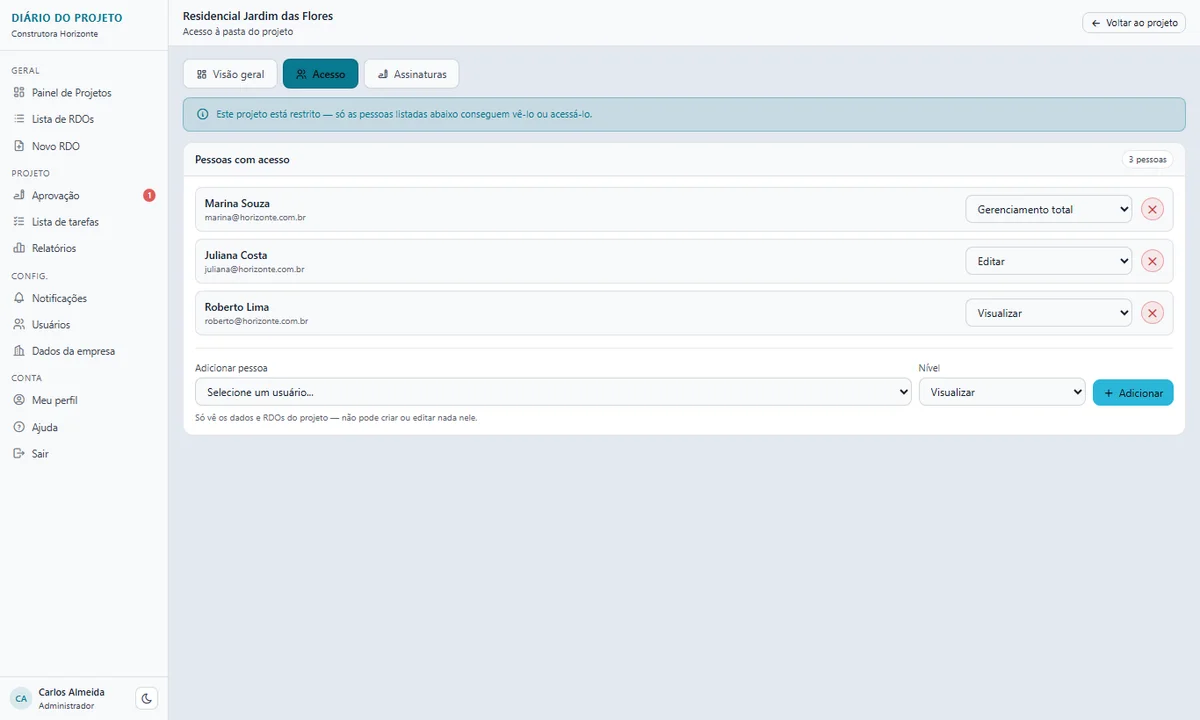
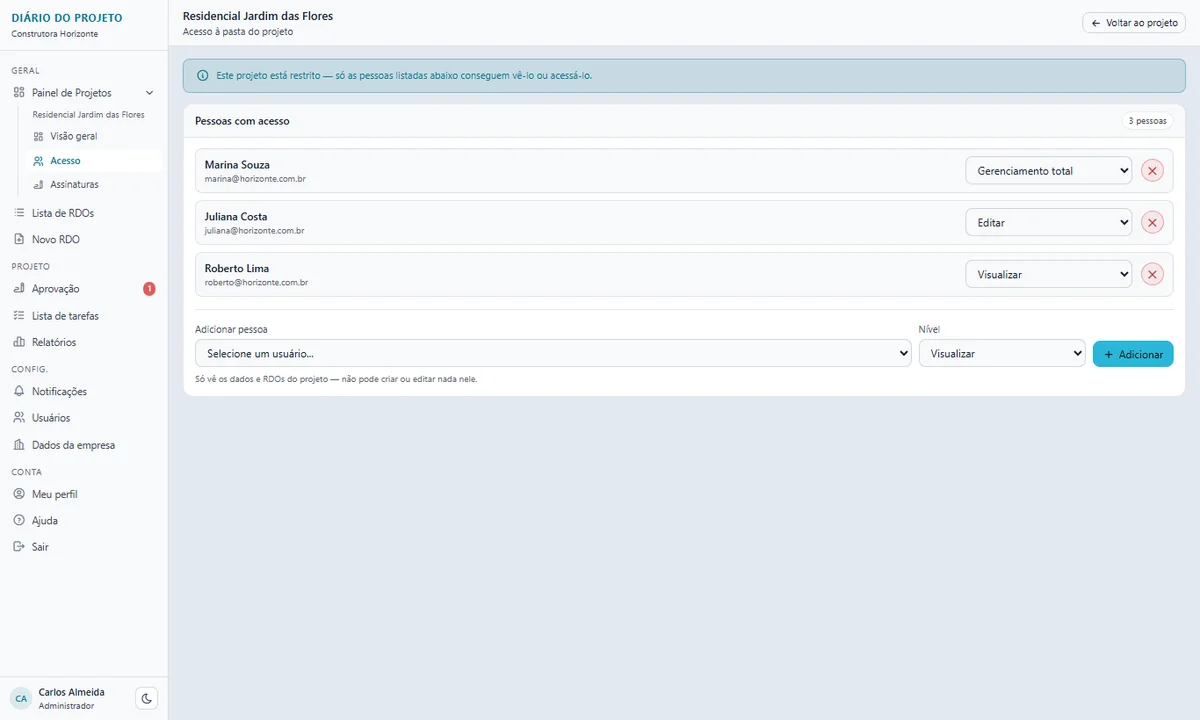
Telas do projeto (Visão geral, Acesso, Assinaturas) passam para um submenu recolhível sob Painel de Projetos, no menu lateral

Changed region(s): [[0.1542, 0.0611, 1.0, 0.6111], [0.0, 0.1528, 0.1233, 0.7639], [0.8017, 0.4278, 0.8633, 0.4583]]

diff --git a/app/(app)/ajuda/conteudo.ts b/app/(app)/ajuda/conteudo.ts
@@ -165,13 +165,13 @@ export const SECOES: Secao[] = [
     titulo: 'Dentro de um projeto',
     resumo: 'Visão geral, quem tem acesso e quem precisa assinar os RDOs.',
     blocos: [
-      { t: 'p', x: 'Ao clicar em um projeto no painel você entra na **pasta do projeto**, que tem três abas: **Visão geral**, **Acesso** e **Assinaturas**.' },
+      { t: 'p', x: 'Ao clicar em um projeto no painel você entra na **pasta do projeto**, que tem três telas: **Visão geral**, **Acesso** e **Assinaturas**. Elas ficam no **menu lateral esquerdo**, num submenu logo abaixo de **Painel de Projetos** (aparece quando você está dentro de um projeto). Clique na setinha ao lado de Painel de Projetos para **recolher** ou reabrir esse submenu. **Acesso** e **Assinaturas** só aparecem para quem pode gerenciar o projeto.' },
       { t: 'h', x: 'Visão geral' },
       { t: 'p', x: 'Mostra os números do projeto (RDOs, atividades, ocorrências, comentários, fotos e vídeos), os **RDOs recentes** e as **fotos recentes** (dois quadros grandes, de tamanho fixo, com rolagem própria: mostram os 15 RDOs e as 24 fotos mais recentes, e **Ver tudo** abre o restante) e, rolando a página para baixo, as informações do contrato: prazo, progresso planejado e real, desvio, H/H total e duração. Clique em qualquer indicador para ver o conteúdo por trás do número. O indicador **Atividades** abre a lista de todas as atividades registradas nos RDOs, as da lista de tarefas e as **avulsas** (marcadas com a etiqueta "Avulsa"), com o andamento em cada RDO (por exemplo, "80% → 85% (+5%)", na mesma linha da atividade). As listas de **Atividades**, **Ocorrências**, **Mão de obra** e **Equipamentos** vêm **separadas por RDO/dia**, com uma linha por registro; **Condições climáticas** traz uma linha por dia. Para ver só a lista de tarefas, use o botão **Lista de tarefas** do alto da tela. Nas abas **Fotos**, **Vídeos** e **Anexos** desse mesmo painel você pode **escolher o que baixar**: marque a caixinha no canto de cada item, ou clique em **Selecionar tudo**, e depois em **Baixar selecionados**. O download vem num arquivo .zip, em pastas por dia, e a seleção vale entre as abas (dá para levar fotos e vídeos juntos). Isso funciona em qualquer projeto, não só nos concluídos. Para alterar os dados, use o botão **Editar**.' },
       { t: 'p', x: 'No alto da tela fica o botão **Novo RDO**: dentro da pasta de um projeto, tudo que você cria é daquele projeto, então o RDO já abre com o **projeto selecionado** (você só escolhe a data). O botão **Lista de tarefas**, ao lado, também abre só as etapas e atividades deste projeto.' },
       { t: 'img', src: '/ajuda/projeto-visao-geral.webp', alt: 'Visão geral de um projeto', legenda: 'Visão geral do projeto.' },
       { t: 'h', x: 'Acesso: quem pode ver este projeto' },
-      { t: 'p', x: 'Por padrão, todo o time enxerga o projeto. Se você adicionar a primeira pessoa na aba **Acesso**, o projeto passa a ser **restrito**: só quem estiver na lista consegue vê-lo. Cada pessoa tem um nível:' },
+      { t: 'p', x: 'Por padrão, todo o time enxerga o projeto. Se você adicionar a primeira pessoa na tela **Acesso**, o projeto passa a ser **restrito**: só quem estiver na lista consegue vê-lo. Cada pessoa tem um nível:' },
       {
         t: 'tabela',
         cab: ['Nível', 'O que a pessoa pode fazer'],
@@ -181,11 +181,11 @@ export const SECOES: Secao[] = [
           ['Gerenciamento total', 'Além de editar, gerencia o acesso e as assinaturas do projeto.'],
         ],
       },
-      { t: 'img', src: '/ajuda/projeto-acesso.webp', alt: 'Aba Acesso do projeto', legenda: 'Aba Acesso com três pessoas e níveis diferentes.' },
+      { t: 'img', src: '/ajuda/projeto-acesso.webp', alt: 'Tela Acesso do projeto', legenda: 'Tela Acesso com três pessoas e níveis diferentes.' },
       {
         t: 'passos',
         x: [
-          'Na aba **Acesso**, escolha a pessoa em **Adicionar pessoa**.',
+          'Na tela **Acesso**, escolha a pessoa em **Adicionar pessoa**.',
           'Escolha o **nível** (Visualizar, Editar ou Gerenciamento total).',
           'Clique em **Adicionar**. Para mudar o nível, use a lista ao lado do nome; para tirar a pessoa, clique no **X** vermelho.',
         ],
@@ -201,7 +201,7 @@ export const SECOES: Secao[] = [
           '**Pré-definida**: você escolhe **até 3 pessoas** (Assinante 1, 2 e 3). Só elas assinam os RDOs deste projeto, e o RDO só fica totalmente aprovado quando todas assinarem. **As assinaturas seguem a ordem**: o Assinante 2 só consegue assinar depois do 1, e o 3 só depois do 2.',
         ],
       },
-      { t: 'img', src: '/ajuda/projeto-assinaturas.webp', alt: 'Aba Assinaturas do projeto', legenda: 'Modo "Pré-definida", com os três assinantes.' },
+      { t: 'img', src: '/ajuda/projeto-assinaturas.webp', alt: 'Tela Assinaturas do projeto', legenda: 'Modo "Pré-definida", com os três assinantes.' },
       { t: 'aviso', x: 'Na ordem de assinatura, quem ainda não está na vez vê a mensagem **"Aguardando a assinatura de ..."** no lugar do botão **Assinar** (o botão **Revisar** continua disponível para todos). Ao enviar o RDO, só o Assinante 1 recebe o aviso por e-mail; cada um dos próximos é avisado quando a vez dele chega. No modo **Aberta** não há ordem.' },
       { t: 'p', x: 'Depois de escolher, clique em **Salvar**.' },
     ],
@@ -556,7 +556,7 @@ export const SECOES: Secao[] = [
         t: 'faq',
         itens: [
           { q: 'Esqueci minha senha. O que faço?', a: 'Na tela de login, clique em **Esqueci minha senha**, informe o seu e-mail e siga o link que chegar por e-mail para criar uma nova senha.' },
-          { q: 'Não consigo ver um projeto que os colegas veem.', a: 'O projeto pode estar **restrito**. Peça a quem administra o projeto para incluir você na aba **Acesso** (ou peça ao administrador da empresa).' },
+          { q: 'Não consigo ver um projeto que os colegas veem.', a: 'O projeto pode estar **restrito**. Peça a quem administra o projeto para incluir você na tela **Acesso** do projeto (ou peça ao administrador da empresa).' },
           { q: 'O botão de criar RDO, aprovar ou ver relatórios não aparece, ou dá aviso de acesso.', a: 'Isso depende das suas **permissões**. Peça ao administrador da empresa para liberar a permissão em **Usuários > Editar**.' },
           { q: 'Preciso corrigir um RDO que já foi enviado.', a: 'Depois de enviado, o RDO fica bloqueado. Abra o RDO e clique em **Voltar para rascunho** (quem emitiu o RDO ou quem aprova pode fazer isso). Depois de corrigido, envie de novo para aprovação; as assinaturas anteriores são descartadas e refeitas.' },
           { q: 'Como aprovo um RDO?', a: 'Abra o RDO em **Aprovação** e clique em **Assinar** na seção Assinaturas. Antes, cadastre a sua assinatura digital em **Meu perfil**.' },

diff --git a/components/layout/Sidebar.tsx b/components/layout/Sidebar.tsx
@@ -1,10 +1,11 @@
 'use client'
 // src/components/layout/Sidebar.tsx
 
+import { Fragment, useEffect, useState } from 'react'
 import Link from 'next/link'
 import { usePathname, useSearchParams } from 'next/navigation'
 import { useAppAuth } from '@/contexts/AuthContext'
-import { useRdos } from '@/hooks/useEmpresa'
+import { useRdos, useResumoProjeto } from '@/hooks/useEmpresa'
 import { ThemeToggle } from '@/components/layout/ThemeToggle'
 import { useNovoRdo } from '@/components/rdos/NovoRdoModal'
 
@@ -27,12 +28,53 @@ const NAV: Array<{ group: string; items: ItemNav[] }> = [
   ]},
 ]
 
+// Dentro da pasta de um projeto, o item "Painel de Projetos" ganha um submenu (que se recolhe)
+// com as telas do projeto: Visão geral, Acesso e Assinaturas. Acesso e Assinaturas só aparecem
+// para quem pode gerenciar o projeto.
+const SUBITENS_PROJETO = [
+  { path: '',             icon: 'ti-layout-dashboard', label: 'Visão geral',  soGerencia: false },
+  { path: '/acesso',      icon: 'ti-users',            label: 'Acesso',       soGerencia: true  },
+  { path: '/assinaturas', icon: 'ti-writing',          label: 'Assinaturas',  soGerencia: true  },
+]
+
+function SubmenuProjeto({ projetoId, aberto, onNavegar }: { projetoId: string; aberto: boolean; onNavegar: () => void }) {
+  const pathname = usePathname()
+  const { data: resumo } = useResumoProjeto(projetoId)
+  if (!aberto) return null
+  const base = `/projetos/${projetoId}`
+  const podeGerenciar = !!resumo?.projeto.podeGerenciar
+  return (
+    <div className="sb-sub" aria-label="Telas do projeto">
+      {resumo?.projeto.nome && <div className="sb-sub-nome" title={resumo.projeto.nome}>{resumo.projeto.nome}</div>}
+      {SUBITENS_PROJETO.filter(i => !i.soGerencia || podeGerenciar).map(i => (
+        <Link key={i.path} href={base + i.path} onClick={onNavegar} className={`ni ${pathname === base + i.path ? 'on' : ''}`}>
+          <i className={`ti ${i.icon}`} />
+          {i.label}
+        </Link>
+      ))}
+    </div>
+  )
+}
+
 export function Sidebar() {
   const pathname = usePathname()
   const searchParams = useSearchParams()
   const { session, logout } = useAppAuth()
   const { data: pendentes } = useRdos({ status: 'PENDENTE_APROVACAO' })
   const { abrirNovoRdo } = useNovoRdo()
+
+  // Pasta de projeto aberta (/projetos/{id}, /projetos/{id}/acesso...) → submenu sob "Painel de Projetos"
+  const projetoAtualId = pathname.match(/^\/projetos\/([^/]+)/)?.[1]
+  const [submenuAberto, setSubmenuAberto] = useState(true)
+  useEffect(() => {
+    try { if (localStorage.getItem('sb-projeto-recolhido') === '1') setSubmenuAberto(false) } catch { /* sem storage: fica aberto */ }
+  }, [])
+  function alternarSubmenu() {
+    setSubmenuAberto(a => {
+      try { localStorage.setItem('sb-projeto-recolhido', a ? '1' : '0') } catch { /* ignora */ }
+      return !a
+    })
+  }
 
   // Alguns itens compartilham o mesmo caminho mas com querys diferentes
   // (ex.: "Lista de RDOs" → /rdos, "Aprovação" → /rdos?status=...) — por isso
@@ -83,18 +125,30 @@ export function Sidebar() {
                 {item.label}
               </button>
             ) : (
-              <Link
-                key={item.href}
-                href={item.href}
-                onClick={fecharMenuMobile}
-                className={`ni ${isActive(item.href) ? 'on' : ''}`}
-              >
-                <i className={`ti ${item.icon}`} />
-                {item.label}
-                {item.label === 'Aprovação' && !!pendentes?.total && (
-                  <span className="nb">{pendentes.total}</span>
+              <Fragment key={item.href}>
+                <div style={{ position: 'relative' }}>
+                  <Link
+                    href={item.href}
+                    onClick={fecharMenuMobile}
+                    className={`ni ${isActive(item.href) ? 'on' : ''}`}
+                  >
+                    <i className={`ti ${item.icon}`} />
+                    {item.label}
+                    {item.label === 'Aprovação' && !!pendentes?.total && (
+                      <span className="nb">{pendentes.total}</span>
+                    )}
+                  </Link>
+                  {item.href === '/painel' && projetoAtualId && (
+                    <button type="button" className="sb-sub-toggle" onClick={alternarSubmenu}
+                      aria-expanded={submenuAberto} aria-label={submenuAberto ? 'Recolher telas do projeto' : 'Mostrar telas do projeto'}>
+                      <i className={`ti ${submenuAberto ? 'ti-chevron-down' : 'ti-chevron-right'}`} />
+                    </button>
+                  )}
+                </div>
+                {item.href === '/painel' && projetoAtualId && (
+                  <SubmenuProjeto projetoId={projetoAtualId} aberto={submenuAberto} onNavegar={fecharMenuMobile} />
                 )}
-              </Link>
+              </Fragment>
             ))}
           </div>
         ))}

diff --git a/tests/e2e/projeto-submenu-lateral.spec.ts b/tests/e2e/projeto-submenu-lateral.spec.ts
@@ -1,0 +1,51 @@
+import { test, expect } from '@playwright/test'
+import { login } from './helpers'
+import { PROJETO_ID, LEITOR_EMAIL } from '../../lib/fake-db-test'
+
+// As telas do projeto (Visão geral / Acesso / Assinaturas) ficam num submenu recolhível sob
+// "Painel de Projetos", no menu lateral, quando se está dentro da pasta de um projeto.
+// Ver SubmenuProjeto em components/layout/Sidebar.tsx.
+
+const submenu = (page: import('@playwright/test').Page) => page.locator('.sb-sub')
+
+test('dentro do projeto, o menu lateral mostra Visão geral, Acesso e Assinaturas e navega entre elas', async ({ page }) => {
+  await login(page)
+  await page.goto('/painel')
+  await expect(submenu(page)).toHaveCount(0) // fora de um projeto não há submenu
+
+  await page.goto(`/projetos/${PROJETO_ID}`)
+  await expect(submenu(page).getByRole('link', { name: 'Visão geral' })).toHaveClass(/on/)
+  await expect(submenu(page).getByRole('link', { name: 'Acesso' })).toBeVisible()
+  await expect(submenu(page).getByRole('link', { name: 'Assinaturas' })).toBeVisible()
+  // as abas antigas do alto da tela saíram
+  await expect(page.locator('.content').getByRole('button', { name: 'Assinaturas' })).toHaveCount(0)
+
+  await submenu(page).getByRole('link', { name: 'Acesso' }).click()
+  await page.waitForURL(`**/projetos/${PROJETO_ID}/acesso`)
+  await expect(submenu(page).getByRole('link', { name: 'Acesso' })).toHaveClass(/on/)
+
+  await submenu(page).getByRole('link', { name: 'Assinaturas' }).click()
+  await page.waitForURL(`**/projetos/${PROJETO_ID}/assinaturas`)
+  await expect(submenu(page).getByRole('link', { name: 'Assinaturas' })).toHaveClass(/on/)
+})
+
+test('o submenu do projeto pode ser recolhido e reaberto', async ({ page }) => {
+  await login(page)
+  await page.goto(`/projetos/${PROJETO_ID}`)
+  await expect(submenu(page)).toBeVisible()
+  // a página hidrata depois de carregar: repete o clique até o handler existir
+  await expect(async () => {
+    await page.getByRole('button', { name: 'Recolher telas do projeto' }).click()
+    await expect(submenu(page)).toHaveCount(0, { timeout: 1500 })
+  }).toPass({ timeout: 15_000 })
+  await page.getByRole('button', { name: 'Mostrar telas do projeto' }).click()
+  await expect(submenu(page)).toBeVisible()
+})
+
+test('quem não gerencia o projeto só vê a Visão geral no submenu', async ({ page }) => {
+  await login(page, LEITOR_EMAIL)
+  await page.goto(`/projetos/${PROJETO_ID}`)
+  await expect(submenu(page).getByRole('link', { name: 'Visão geral' })).toBeVisible()
+  await expect(submenu(page).getByRole('link', { name: 'Acesso' })).toHaveCount(0)
+  await expect(submenu(page).getByRole('link', { name: 'Assinaturas' })).toHaveCount(0)
+})

diff --git a/styles/globals.css b/styles/globals.css
@@ -99,6 +99,14 @@ html, body {
 .ni:hover { background: var(--s2); color: var(--tp); }
 .ni.on    { background: var(--s2); color: var(--ta); font-weight: 500; }
 .ni.on i  { opacity: 1; color: var(--ta); }
+/* submenu do projeto sob "Painel de Projetos" (recolhível) */
+.sb-sub        { margin: 0 0 4px 14px; padding-left: 8px; border-left: .5px solid var(--b); }
+.sb-sub .ni    { padding: 5px 8px; font-size: 11px; }
+.sb-sub .ni i  { font-size: 13px; }
+.sb-sub-nome   { font-size: 10px; color: var(--tm); padding: 2px 8px 4px; overflow: hidden; text-overflow: ellipsis; white-space: nowrap; }
+.sb-sub-toggle { position: absolute; right: 4px; top: 50%; transform: translateY(-50%); width: 22px; height: 22px; display: flex; align-items: center; justify-content: center; background: transparent; border: none; border-radius: var(--r); color: var(--ts); cursor: pointer; padding: 0; }
+.sb-sub-toggle:hover { background: var(--s2); color: var(--tp); }
+.sb-sub-toggle i { font-size: 13px; }
 .nb       { margin-left: auto; background: var(--fd); color: #fff; font-size: 9px; padding: 1px 5px; border-radius: 10px; font-weight: 600; }
 .sb-user  { padding: 9px 11px; border-top: .5px solid var(--b); display: flex; align-items: center; gap: 7px; }
 .av       { border-radius: 50%; display: flex; align-items: center; justify-content: center; font-weight: 600; flex-shrink: 0; }

diff --git a/app/(app)/projetos/[id]/page.tsx b/app/(app)/projetos/[id]/page.tsx
@@ -17,7 +17,6 @@ import { TarefasContent } from '@/app/(app)/tarefas/page'
 import { RdosContent } from '@/app/(app)/rdos/page'
 import { numeroRdo, fmtData } from '@/lib/format'
 import { toast } from 'sonner'
-import { ProjetoTabs } from '@/components/projetos/ProjetoTabs'
 import { EmpresaCampo } from '@/components/projetos/EmpresaCampo'
 import { rotuloEmpresa } from '@/lib/rdo-display'
 import { baixarTodosRdosPdf, baixarMidiasProjeto } from '@/lib/download-projeto'
@@ -246,8 +245,6 @@ export default function ProjetoResumoPage() {
       />
 
       <div className="content" style={{ display: 'flex', flexDirection: 'column', gap: 10 }}>
-        {projeto.podeGerenciar && <ProjetoTabs projetoId={id} ativo="geral" />}
-
         {/* KPIs — cada um abre a categoria correspondente */}
         <div className="kgrid" style={{ gridTemplateColumns: 'repeat(6,1fr)', marginBottom: 0, flexShrink: 0 }}>
           <KpiCard icon="ti-file-text"      valor={kpis.totalRdos}            label="RDOs"        onClick={() => setModalRdos(true)} />

diff --git a/app/(app)/projetos/[id]/acesso/page.tsx b/app/(app)/projetos/[id]/acesso/page.tsx
@@ -10,7 +10,6 @@ import {
 } from '@/hooks/useEmpresa'
 import { Topbar } from '@/components/layout/Topbar'
 import { Skeleton, Select, Btn } from '@/components/ui'
-import { ProjetoTabs } from '@/components/projetos/ProjetoTabs'
 import type { ProjetoAcessoNivel } from '@/lib/types'
 import { mensagemErro } from '@/lib/api'
 
@@ -105,8 +104,6 @@ export default function ProjetoAcessoPage() {
         }
       />
       <div className="content">
-        <ProjetoTabs projetoId={id} ativo="acesso" />
-
         <div style={{ background: 'var(--bga)', border: '.5px solid var(--ba)', borderRadius: 'var(--r)', padding: '10px 14px', marginBottom: 12, fontSize: 11, color: 'var(--ta)', display: 'flex', gap: 8, alignItems: 'flex-start' }}>
           <i className="ti ti-info-circle" style={{ fontSize: 15, flexShrink: 0, marginTop: 1 }} />
           <span>

diff --git a/app/(app)/projetos/[id]/assinaturas/page.tsx b/app/(app)/projetos/[id]/assinaturas/page.tsx
@@ -10,7 +10,6 @@ import {
 } from '@/hooks/useEmpresa'
 import { Topbar } from '@/components/layout/Topbar'
 import { Skeleton, Select, Btn } from '@/components/ui'
-import { ProjetoTabs } from '@/components/projetos/ProjetoTabs'
 import type { ProjetoAssinaturaModo } from '@/lib/types'
 import { mensagemErro } from '@/lib/api'
 
@@ -97,8 +96,6 @@ export default function ProjetoAssinaturasPage() {
         }
       />
       <div className="content">
-        <ProjetoTabs projetoId={id} ativo="assinaturas" />
-
         <div className="sec">
           <div className="sec-h"><span className="sec-title">Quem precisa assinar os RDOs deste projeto</span></div>
           <div className="sec-body">

diff --git a/tests/e2e/projeto-visao-geral-layout.spec.ts b/tests/e2e/projeto-visao-geral-layout.spec.ts
@@ -5,7 +5,7 @@ import { PROJETO_ID } from '../../lib/fake-db-test'
 // Visão geral do projeto: os quadros "RDOs recentes" e "Fotos recentes" têm altura grande e fixa,
 // qualquer que seja a tela, e "Informações do projeto" fica abaixo, vista rolando a página.
 
-for (const altura of [500, 600]) {
+for (const altura of [450, 500]) {
   test(`quadros de RDOs/fotos recentes mantêm a mesma altura em tela de ${altura}px e as informações ficam abaixo`, async ({ page }) => {
     await page.setViewportSize({ width: 1400, height: altura })
     await login(page)
